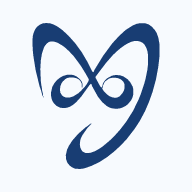
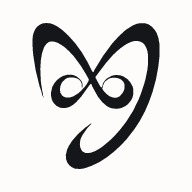
web: set the brand in ink on light and off-white on dark
The logo follows --logo: ink on light surfaces, off-white on dark. App
icons, favicons and the share image are the ink mark on an off-white
tile, regenerated with npm run brand. The brand palette is now read
from palette.ts, so the specimen, the manifest and the browser theme
colour cannot drift from the tokens. The brand tests cover both
surfaces and the new values.

DEC-204

Changed region(s): [[0.1562, 0.0938, 0.8438, 0.9062]]

diff --git a/web/src/components/brand/brand-assets.test.ts b/web/src/components/brand/brand-assets.test.ts
@@ -4,9 +4,9 @@ import { tmpdir } from "node:os";
 import path from "node:path";
 import { inflateSync } from "node:zlib";
 import { afterAll, beforeAll, describe, expect, it } from "vitest";
-import { MARK_SOURCE, NAVY, OFF_WHITE, OUTPUTS, PUBLIC_DIR, generateBrandAssets } from "../../../scripts/brand-assets.mjs";
+import { INK, MARK_SOURCE, OFF_WHITE, OUTPUTS, PUBLIC_DIR, generateBrandAssets } from "../../../scripts/brand-assets.mjs";
 import { MARK_PATH } from "./Logo";
-import { brandHex, NAVY as PALETTE_NAVY, OFF_WHITE as PALETTE_OFF_WHITE } from "@/lib/brand-palette";
+import { brandHex, INK as PALETTE_INK, OFF_WHITE as PALETTE_OFF_WHITE } from "@/lib/brand-palette";
 
 type Rgba = [number, number, number, number];
 
@@ -89,22 +89,22 @@ describe("brand assets (npm run brand)", () => {
     expect((await generated(name)).equals(await committed(name))).toBe(true);
   });
 
-  it("uses the palette's navy and off-white, and the mark from the SVG source", async () => {
-    expect(NAVY).toBe(PALETTE_NAVY);
+  it("uses the palette's ink and off-white, and the mark from the SVG source", async () => {
+    expect(INK).toBe(PALETTE_INK);
     expect(OFF_WHITE).toBe(PALETTE_OFF_WHITE);
     expect(await readFile(MARK_SOURCE, "utf8")).toContain(`d="${MARK_PATH}"`);
   });
 
-  it("draws the favicon SVG as the navy mark on an off-white square, in every colour scheme", async () => {
+  it("draws the favicon SVG as the ink mark on an off-white square, in every colour scheme", async () => {
     const svg = (await committed("favicon.svg")).toString("utf8");
     expect(svg).toContain('viewBox="0 0 1000 1000"');
     expect(svg).toContain(`<rect width="1000" height="1000" fill="${OFF_WHITE}"/>`);
-    expect(svg).toContain(`<path fill="${NAVY}"`);
+    expect(svg).toContain(`<path fill="${INK}"`);
     expect(svg).toContain(`d="${MARK_PATH}"`);
     expect(svg).not.toMatch(/<style|prefers-color-scheme/);
   });
 
-  it.each([16, 32, 48])("renders favicon-%i.png as the navy mark, as large as fits, on an opaque off-white square", async (size) => {
+  it.each([16, 32, 48])("renders favicon-%i.png as the ink mark, as large as fits, on an opaque off-white square", async (size) => {
     const image = await png(`favicon-${size}.png`);
     expect([image.width, image.height]).toEqual([size, size]);
     for (const [x, y] of [
@@ -115,13 +115,13 @@ describe("brand assets (npm run brand)", () => {
     ])
       expect(image.at(x, y)).toEqual(opaque(OFF_WHITE));
     const all = pixels(image);
-    const [bg, fg] = [rgb(OFF_WHITE), rgb(NAVY)];
+    const [bg, fg] = [rgb(OFF_WHITE), rgb(INK)];
     for (const [, , p] of all) {
       expect(p[3]).toBe(255);
       for (const c of [0, 1, 2]) expect(p[c]).toBeGreaterThanOrEqual(fg[c]);
       for (const c of [0, 1, 2]) expect(p[c]).toBeLessThanOrEqual(bg[c]);
     }
-    expect(all.some(([, , p]) => p.join() === opaque(NAVY).join())).toBe(true);
+    expect(all.some(([, , p]) => p.join() === opaque(INK).join())).toBe(true);
     const ink = all.filter(([, , p]) => p.join() !== opaque(OFF_WHITE).join());
     const ys = ink.map(([, y]) => y);
     const xs = ink.map(([x]) => x);
@@ -152,7 +152,7 @@ describe("brand assets (npm run brand)", () => {
     ["pwa-192.png", 192],
     ["pwa-512.png", 512],
     ["pwa-maskable-512.png", 512],
-  ])("renders %s as the navy mark centred on an off-white %ipx square", async (name, size) => {
+  ])("renders %s as the ink mark centred on an off-white %ipx square", async (name, size) => {
     const image = await png(name);
     expect([image.width, image.height]).toEqual([size, size]);
     for (const [x, y] of [
@@ -162,7 +162,7 @@ describe("brand assets (npm run brand)", () => {
       [size - 1, size - 1],
     ])
       expect(image.at(x, y)).toEqual(opaque(OFF_WHITE));
-    const mark = pixels(image).filter(([, , p]) => p.join() === opaque(NAVY).join());
+    const mark = pixels(image).filter(([, , p]) => p.join() === opaque(INK).join());
     expect(mark.length).toBeGreaterThan(0);
     const ys = mark.map(([, y]) => y);
     const xs = mark.map(([x]) => x);
@@ -181,29 +181,29 @@ describe("brand assets (npm run brand)", () => {
     }
   });
 
-  it("renders og-image.png at 1200 by 630: off-white, the navy mark and wordmark, and nothing else", async () => {
+  it("renders og-image.png at 1200 by 630: off-white, the ink mark and wordmark, and nothing else", async () => {
     const image = await png("og-image.png");
     expect([image.width, image.height]).toEqual([1200, 630]);
     const all = pixels(image);
-    const navy = all.filter(([, , p]) => p.join() === opaque(NAVY).join());
-    const xs = navy.map(([x]) => x);
-    const ys = navy.map(([, y]) => y);
+    const inkPixels = all.filter(([, , p]) => p.join() === opaque(INK).join());
+    const xs = inkPixels.map(([x]) => x);
+    const ys = inkPixels.map(([, y]) => y);
     const [left, right, top, bottom] = [Math.min(...xs), Math.max(...xs), Math.min(...ys), Math.max(...ys)];
     expect(Math.abs(left - (1199 - right))).toBeLessThanOrEqual(2);
     expect(Math.abs(top - (629 - bottom))).toBeLessThanOrEqual(2);
-    expect(navy.some(([x, y]) => x < 345 && y > 190 && y < 450)).toBe(true);
-    expect(navy.some(([x, y]) => x > 445 && y > 190 && y < 312)).toBe(true);
+    expect(inkPixels.some(([x, y]) => x < 345 && y > 190 && y < 450)).toBe(true);
+    expect(inkPixels.some(([x, y]) => x > 445 && y > 190 && y < 312)).toBe(true);
     const ink = all.filter(([, , p]) => p.join() !== opaque(OFF_WHITE).join());
     expect(ink.some(([x, y]) => x > 445 && y > 330)).toBe(false);
     for (const [, , p] of ink) expect(p[3]).toBe(255);
-    const [bg, fg] = [rgb(OFF_WHITE), rgb(NAVY)];
+    const [bg, fg] = [rgb(OFF_WHITE), rgb(INK)];
     for (const [, , p] of ink) for (const c of [0, 1, 2]) expect(p[c]).toBeGreaterThanOrEqual(Math.min(bg[c], fg[c]));
-    expect(all.some(([, , p]) => p.join() === opaque(brandHex("Brass")).join())).toBe(false);
+    expect(all.some(([, , p]) => p.join() === opaque(brandHex("Gold")).join())).toBe(false);
   });
 
   it("describes the installed app in site.webmanifest", async () => {
     const manifest = JSON.parse((await committed("site.webmanifest")).toString("utf8"));
-    expect(manifest).toMatchObject({ name: "Owlhead", short_name: "Owlhead", theme_color: "#F7FAFE", background_color: "#F7FAFE", display: "standalone" });
+    expect(manifest).toMatchObject({ name: "Owlhead", short_name: "Owlhead", theme_color: OFF_WHITE, background_color: OFF_WHITE, display: "standalone" });
     expect(manifest.icons.map((i: { src: string }) => i.src)).toEqual(["/pwa-192.png", "/pwa-512.png", "/pwa-maskable-512.png"]);
   });
 

diff --git a/web/src/components/brand/brand-specimen.tsx b/web/src/components/brand/brand-specimen.tsx
@@ -1,20 +1,25 @@
 import type { ReactNode } from "react";
 import { LOCKUP_GAP, OwlheadLockup, OwlheadMark, OwlheadWordmark } from "./Logo";
-import { BRAND_PALETTE, NAVY, OFF_WHITE, hexContrast } from "@/lib/brand-palette";
+import { BRAND_PALETTE, INK, NIGHT, OFF_WHITE, hexContrast } from "@/lib/brand-palette";
 
 const DO = [
-  "Navy on a light surface, always: one colour at a time.",
+  "Ink on a light surface and off-white on a dark one: one colour at a time, the colour of the type around it.",
   "The mark alone where the lockup does not fit: a phone header, a collapsed sidebar, a favicon.",
   "Clear space of a quarter of the mark's height on every side, the same as the gap inside the lockup.",
   "The committed SVGs or the Logo components, scaled as a whole.",
 ];
 
 const DONT = [
-  "Reverse it: no off-white mark on a navy block or any other dark fill, in the UI, the app icons, or the share image.",
-  "Recolour it: no brass mark, no second colour, no colour fade, shadow, or outline.",
+  "Set it on a colour: no mark on gold, crimson, an account fill or any other block. The page is its only ground; the app icons and the share image are always ink on off-white.",
+  "Recolour it: no gold mark, no second colour, no colour fade, shadow, or outline.",
   "Stretch, rotate, crop, or redraw it, or rebuild the wordmark in live type or another face.",
   "Use the founder's shaded original in product UI: the UI is flat colour (DEC-200).",
   "Go below 16 px for the mark or 96 px wide for the lockup, or set it on a busy field.",
+];
+
+const SURFACES = [
+  { label: "On light: ink on off-white", background: OFF_WHITE, color: INK },
+  { label: "On dark: off-white on night", background: NIGHT, color: OFF_WHITE },
 ];
 
 function Tile({ label, children, className }: { label: string; children: ReactNode; className?: string }) {
@@ -26,32 +31,36 @@ function Tile({ label, children, className }: { label: string; children: ReactNo
   );
 }
 
-/** The Brand block of `/design`: the mark, the wordmark, and the lockup, and how to use them (DEC-202, DEC-203). */
+/** The Brand block of `/design`: the mark, the wordmark, and the lockup, and how to use them (DEC-203, amended by DEC-204). */
 export function BrandSpecimen() {
   return (
     <div className="grid gap-(--block-gap)">
-      <div data-slot="brand-surface" className="grid gap-6 rounded-2xl p-6 ring-1 ring-border" style={{ background: OFF_WHITE, color: NAVY }}>
-        <span className="text-label font-medium">On off-white</span>
-        <div className="flex flex-wrap items-end gap-8">
-          <OwlheadMark className="h-16 w-auto" />
-          <OwlheadWordmark className="h-10 w-auto" />
-          <OwlheadLockup className="h-12 w-auto max-w-full" />
-        </div>
+      <div className="grid gap-3 lg:grid-cols-2">
+        {SURFACES.map((surface) => (
+          <div key={surface.label} data-slot="brand-surface" className="grid gap-6 rounded-2xl p-6 ring-1 ring-border" style={{ background: surface.background, color: surface.color }}>
+            <span className="text-label font-medium">{surface.label}</span>
+            <div className="flex flex-wrap items-end gap-8">
+              <OwlheadMark className="h-16 w-auto" />
+              <OwlheadWordmark className="h-10 w-auto" />
+              <OwlheadLockup className="h-12 w-auto max-w-full" />
+            </div>
+          </div>
+        ))}
       </div>
 
       <div className="grid gap-3 sm:grid-cols-2 xl:grid-cols-4">
         <Tile label="Clear space: a quarter of the mark's height" className="sm:col-span-2">
-          <div className="rounded-lg border border-dashed border-muted-foreground" style={{ padding: `${48 * LOCKUP_GAP}px`, color: NAVY }}>
+          <div className="rounded-lg border border-dashed border-muted-foreground" style={{ padding: `${48 * LOCKUP_GAP}px`, color: "var(--logo)" }}>
             <OwlheadLockup className="block h-12 w-auto" title="" />
           </div>
         </Tile>
         <Tile label="Minimum: mark 16 px">
-          <span style={{ color: NAVY }}>
+          <span style={{ color: "var(--logo)" }}>
             <OwlheadMark className="h-4 w-auto" />
           </span>
         </Tile>
         <Tile label="Minimum: lockup 96 px wide">
-          <span style={{ color: NAVY }}>
+          <span style={{ color: "var(--logo)" }}>
             <OwlheadLockup className="block h-auto w-24" />
           </span>
         </Tile>
@@ -76,7 +85,7 @@ export function BrandSpecimen() {
         </div>
       </div>
 
-      <ul className="grid gap-2 sm:grid-cols-2 xl:grid-cols-3" aria-label="Navy and brass palette">
+      <ul className="grid gap-2 sm:grid-cols-2 xl:grid-cols-3" aria-label="Brand palette">
         {BRAND_PALETTE.map((c) => (
           <li key={c.name} data-slot="brand-color" className="grid grid-cols-[3rem_1fr] gap-3 rounded-xl bg-background p-2.5">
             <span className="size-12 rounded-lg ring-1 ring-border" style={{ background: c.hex }} aria-hidden />
@@ -86,7 +95,7 @@ export function BrandSpecimen() {
               </span>
               <span className="text-label font-normal text-muted-foreground">{c.role}</span>
               <span className="font-mono text-label font-normal text-muted-foreground tabular">
-                {hexContrast(c.hex, OFF_WHITE).toFixed(2)}:1 on off-white · {hexContrast(c.hex, NAVY).toFixed(2)}:1 on navy
+                {hexContrast(c.hex, OFF_WHITE).toFixed(2)}:1 on off-white · {hexContrast(c.hex, NIGHT).toFixed(2)}:1 on night
               </span>
             </span>
           </li>

diff --git a/web/src/components/brand/brand-specimen.test.tsx b/web/src/components/brand/brand-specimen.test.tsx
@@ -1,24 +1,44 @@
 import { render, screen, within } from "@testing-library/react";
 import { describe, expect, it } from "vitest";
+import { toHex } from "@/lib/color";
+import { INK, NIGHT, OFF_WHITE, hexContrast } from "@/lib/brand-palette";
+import { PALETTE, PALETTE_DARK } from "@/lib/palette";
 import { BrandSpecimen } from "./brand-specimen";
 
+const rgb = (hex: string) => `rgb(${[1, 3, 5].map((i) => parseInt(hex.slice(i, i + 2), 16)).join(", ")})`;
+
 describe("/design brand specimen", () => {
-  it("shows the mark, wordmark, and lockup in navy on off-white, and never reversed on navy", () => {
+  it("shows the mark, wordmark, and lockup in ink on off-white and in off-white on night, and on no other fill", () => {
     const { container } = render(<BrandSpecimen />);
     const surfaces = container.querySelectorAll<HTMLElement>("[data-slot=brand-surface]");
-    expect([...surfaces].map((s) => [s.style.background, s.style.color])).toEqual([["rgb(247, 250, 254)", "rgb(24, 61, 115)"]]);
-    expect(within(surfaces[0]).getAllByRole("img", { name: "Owlhead" })).toHaveLength(3);
-    const navyFills = [...container.querySelectorAll<HTMLElement>("[style]")].filter((el) => el.style.background === "rgb(24, 61, 115)" && !el.closest("[data-slot=brand-color]"));
-    expect(navyFills).toEqual([]);
+    expect([...surfaces].map((s) => [s.style.background, s.style.color])).toEqual([
+      [rgb(OFF_WHITE), rgb(INK)],
+      [rgb(NIGHT), rgb(OFF_WHITE)],
+    ]);
+    for (const surface of surfaces) expect(within(surface).getAllByRole("img", { name: "Owlhead" })).toHaveLength(3);
+    const fills = [...container.querySelectorAll<HTMLElement>("[style]")].filter((el) => el.style.background && !el.closest("[data-slot=brand-color]") && el.dataset.slot !== "brand-surface");
+    expect(fills).toEqual([]);
+    for (const mark of container.querySelectorAll("[data-slot=owlhead-mark], [data-slot=owlhead-lockup]")) {
+      if (mark.closest("[data-slot=brand-surface]")) continue;
+      expect(mark.closest<HTMLElement>("[style]")?.style.color).toBe("var(--logo)");
+    }
   });
 
   it("lists the six palette values with their contrast", () => {
     render(<BrandSpecimen />);
-    const palette = screen.getByRole("list", { name: "Navy and brass palette" });
+    const palette = screen.getByRole("list", { name: "Brand palette" });
     const text = within(palette).getAllByRole("listitem").map((li) => li.textContent);
     expect(text).toHaveLength(6);
-    for (const hex of ["#183D73", "#AC7D1B", "#634606", "#FDF1DC", "#181C21", "#F7FAFE"]) expect(text.join(" ")).toContain(hex);
-    expect(text[0]).toContain("10.27:1 on off-white");
+    for (const hex of ["#14161A", "#FDFCFA", "#AB7D13", "#6A4D08", "#FFF6E6", "#0B0D11"]) expect(text.join(" ")).toContain(hex);
+    expect(text[0]).toContain(`${hexContrast(INK, OFF_WHITE).toFixed(2)}:1 on off-white`);
+    expect(hexContrast(INK, OFF_WHITE)).toBeGreaterThanOrEqual(15);
+    expect(hexContrast(OFF_WHITE, NIGHT)).toBeGreaterThanOrEqual(15);
+  });
+
+  it("takes its colours from the palette: ink and off-white are light mode's type and card, night is dark mode's page", () => {
+    expect(INK).toBe(toHex(PALETTE.tokens.foreground.value).toUpperCase());
+    expect(OFF_WHITE).toBe(toHex(PALETTE.tokens.card.value).toUpperCase());
+    expect(NIGHT).toBe(toHex(PALETTE_DARK.tokens.background.value).toUpperCase());
   });
 
   it("shows the minimum sizes: the mark at 16 px, the lockup 96 px wide", () => {

diff --git a/web/src/lib/brand-palette.ts b/web/src/lib/brand-palette.ts
@@ -1,11 +1,20 @@
-/** The founder's "ink and gold" palette (DEC-202). `scripts/brand-assets.mjs` uses the same values. */
+/**
+ * The brand's colours, taken from the Ink and Gold palette (DEC-204) so the two cannot drift.
+ * `scripts/brand-assets.mjs` writes the ink and off-white as literals; `brand-assets.test.ts` holds
+ * them equal.
+ */
+import { toHex } from "./color";
+import { PALETTE, PALETTE_DARK, type Palette, type TokenName } from "./palette";
+
+const hex = (palette: Palette, token: TokenName) => toHex(palette.tokens[token].value).toUpperCase();
+
 export const BRAND_PALETTE = [
-  { name: "Navy", hex: "#111417", role: "Ink: the brand, text, and the mark, always on a light surface" },
-  { name: "Brass", hex: "#D8A93B", role: "Gold: the one accent, for rules, fills and markers. Never body text" },
-  { name: "Dark brass", hex: "#8A600A", role: "Dark gold: gold as text, and text on the gold tint" },
-  { name: "Brass tint", hex: "#FDF3D9", role: "Gold tint: a notice field" },
-  { name: "Slate ink", hex: "#111417", role: "Text" },
-  { name: "Off-white", hex: "#FDFCFA", role: "The page; the tile behind the app icons and the share image" },
+  { name: "Ink", hex: hex(PALETTE, "foreground"), role: "The mark and the type on a light surface, and the primary action" },
+  { name: "Off-white", hex: hex(PALETTE, "card"), role: "The mark on a dark surface; the tile behind the app icons and the share image" },
+  { name: "Gold", hex: hex(PALETTE, "mandate-marker"), role: "The one accent: your mandate's rules and markers, and the account's line. Never text, never a block" },
+  { name: "Dark gold", hex: hex(PALETTE, "mandate-strong"), role: "Gold as text on a light surface" },
+  { name: "Gold tint", hex: hex(PALETTE, "mandate"), role: "Your mandate's field" },
+  { name: "Night", hex: hex(PALETTE_DARK, "background"), role: "The page in dark mode" },
 ] as const;
 
 export type BrandColorName = (typeof BRAND_PALETTE)[number]["name"];
@@ -16,8 +25,9 @@ export function brandHex(name: BrandColorName): string {
   return color.hex;
 }
 
-export const NAVY = brandHex("Navy");
+export const INK = brandHex("Ink");
 export const OFF_WHITE = brandHex("Off-white");
+export const NIGHT = brandHex("Night");
 
 function luminance(hex: string): number {
   const channels = [1, 3, 5].map((i) => parseInt(hex.slice(i, i + 2), 16) / 255);

diff --git a/web/src/components/brand/metadata.test.ts b/web/src/components/brand/metadata.test.ts
@@ -3,6 +3,7 @@ import { existsSync } from "node:fs";
 import path from "node:path";
 import { describe, expect, it } from "vitest";
 import { metadata, viewport } from "@/app/layout";
+import { NIGHT, OFF_WHITE } from "@/lib/brand-palette";
 import { PUBLIC_DIR } from "../../../scripts/brand-assets.mjs";
 
 function urls(value: unknown): string[] {
@@ -20,11 +21,14 @@ describe("root layout metadata (DEC-203)", () => {
     for (const url of referenced) expect(existsSync(path.join(PUBLIC_DIR, url)), url).toBe(true);
   });
 
-  it("shares a generic Owlhead card at owlhead.ai, on off-white", () => {
+  it("shares a generic Owlhead card at owlhead.ai, and colours the browser chrome off-white in light and night in dark", () => {
     expect(String(metadata.metadataBase)).toBe("https://owlhead.ai/");
     expect(metadata.openGraph).toMatchObject({ title: "Owlhead", images: [{ url: "/og-image.png", width: 1200, height: 630, alt: "Owlhead" }] });
     expect(metadata.twitter).toMatchObject({ card: "summary_large_image", title: "Owlhead", images: [{ url: "/og-image.png", alt: "Owlhead" }] });
-    expect(viewport.themeColor).toBe("#F7FAFE");
+    expect(viewport.themeColor).toEqual([
+      { media: "(prefers-color-scheme: light)", color: OFF_WHITE },
+      { media: "(prefers-color-scheme: dark)", color: NIGHT },
+    ]);
   });
 
   it("carries no description or tagline", () => {

diff --git a/web/src/app/layout.tsx b/web/src/app/layout.tsx
@@ -6,6 +6,7 @@ import "./globals.css";
 import { ScenarioSwitcher } from "@/components/dev/scenario-switcher";
 import { Providers } from "@/components/providers";
 import { AppShell } from "@/components/shell/app-shell";
+import { NIGHT, OFF_WHITE } from "@/lib/brand-palette";
 import { RoleProvider } from "@/lib/roles";
 import { buildWorkspace } from "@/fixtures/workspace";
 import { getColourBlind, getScenario, getThemePref } from "@/lib/get-workspace";
@@ -42,8 +43,8 @@ export const metadata: Metadata = {
 
 export const viewport: Viewport = {
   themeColor: [
-    { media: "(prefers-color-scheme: light)", color: "#FDFCFA" },
-    { media: "(prefers-color-scheme: dark)", color: "#0B0D11" },
+    { media: "(prefers-color-scheme: light)", color: OFF_WHITE },
+    { media: "(prefers-color-scheme: dark)", color: NIGHT },
   ],
   colorScheme: "light dark",
 };
